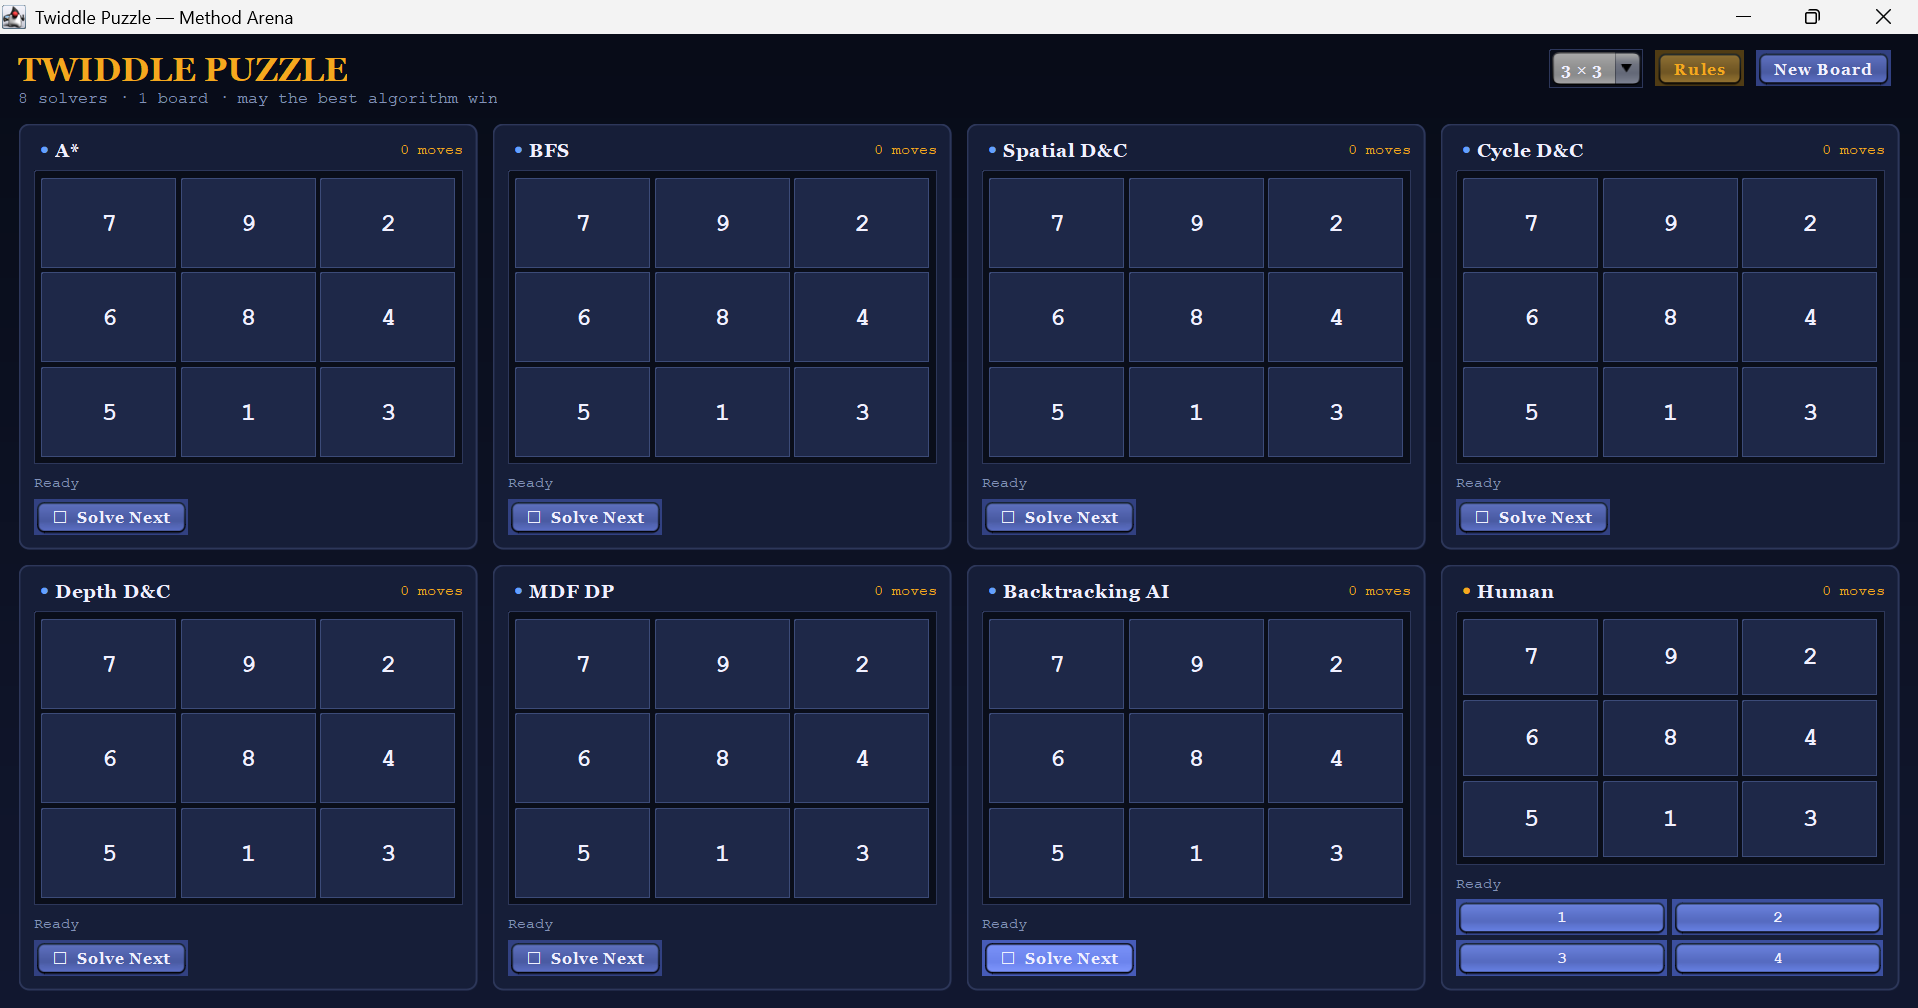
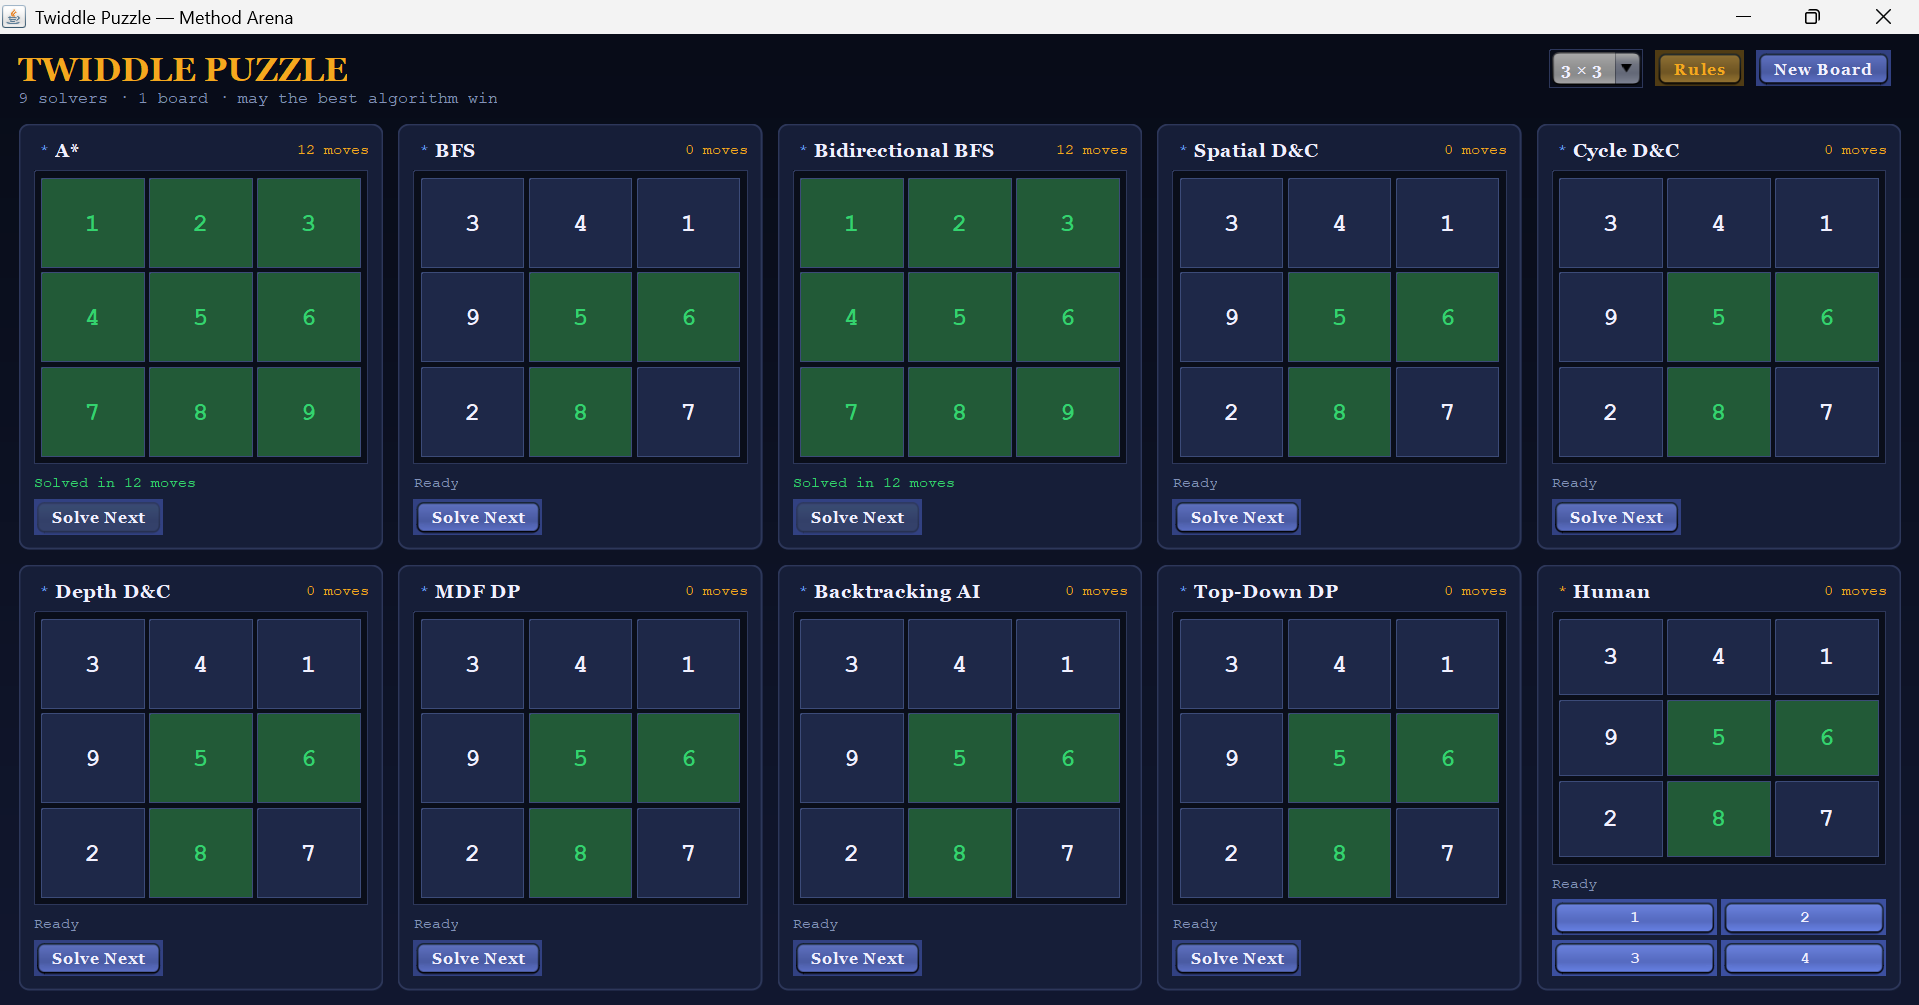
Changed bidirectionalbfsplayer name and changes made in main and gui to accomodate it

diff --git a/src/gui/TwiddleGUI.java b/src/gui/TwiddleGUI.java
@@ -424,11 +424,9 @@ public class TwiddleGUI extends JFrame {
             final Player p;
             try {
                 p = buildPlayer();
-            } catch (RuntimeException ex) {
-                statusLabel.setText("Solver setup failed");
-                return;
-            } catch (Error err) {
-                statusLabel.setText("Solver unavailable");
+            } catch (Throwable t) {
+                t.printStackTrace();  // add this
+                statusLabel.setText("Solver unavailable: " + t.getMessage());
                 return;
             }
             if (p == null) { statusLabel.setText("Unknown method"); return; }
@@ -470,7 +468,7 @@ public class TwiddleGUI extends JFrame {
                 case "BFS":
                     { ComputerPlayer p = new ComputerPlayer(board); p.setAlgorithm(true); return p; }
                 case "Bidirectional BFS":
-                    return new BidirectionalBFSPlayer(board);
+                    return new BiDirBFSPlayer(board);
                 case "Spatial D&C":
                     { ComputerPlayer2 p = new ComputerPlayer2(board); p.setMode(1); return p; }
                 case "Cycle D&C":

diff --git a/src/game/BiDirBFSPlayer.java b/src/game/BiDirBFSPlayer.java
@@ -2,9 +2,9 @@ package game;
 
 import java.util.*;
 
-public class BidirectionalBFSPlayer extends AbstractPlayer {
+public class BiDirBFSPlayer extends AbstractPlayer {
 
-    public BidirectionalBFSPlayer(Board board) {
+    public BiDirBFSPlayer(Board board) {
         super(board);
     }
 

diff --git a/src/game/Main.java b/src/game/Main.java
@@ -93,7 +93,7 @@ public class Main {
                 break;
 
             case 9:
-                computer = new BidirectionalBFSPlayer(board);
+                computer = new BiDirBFSPlayer(board);
                 break;
 
             default:
